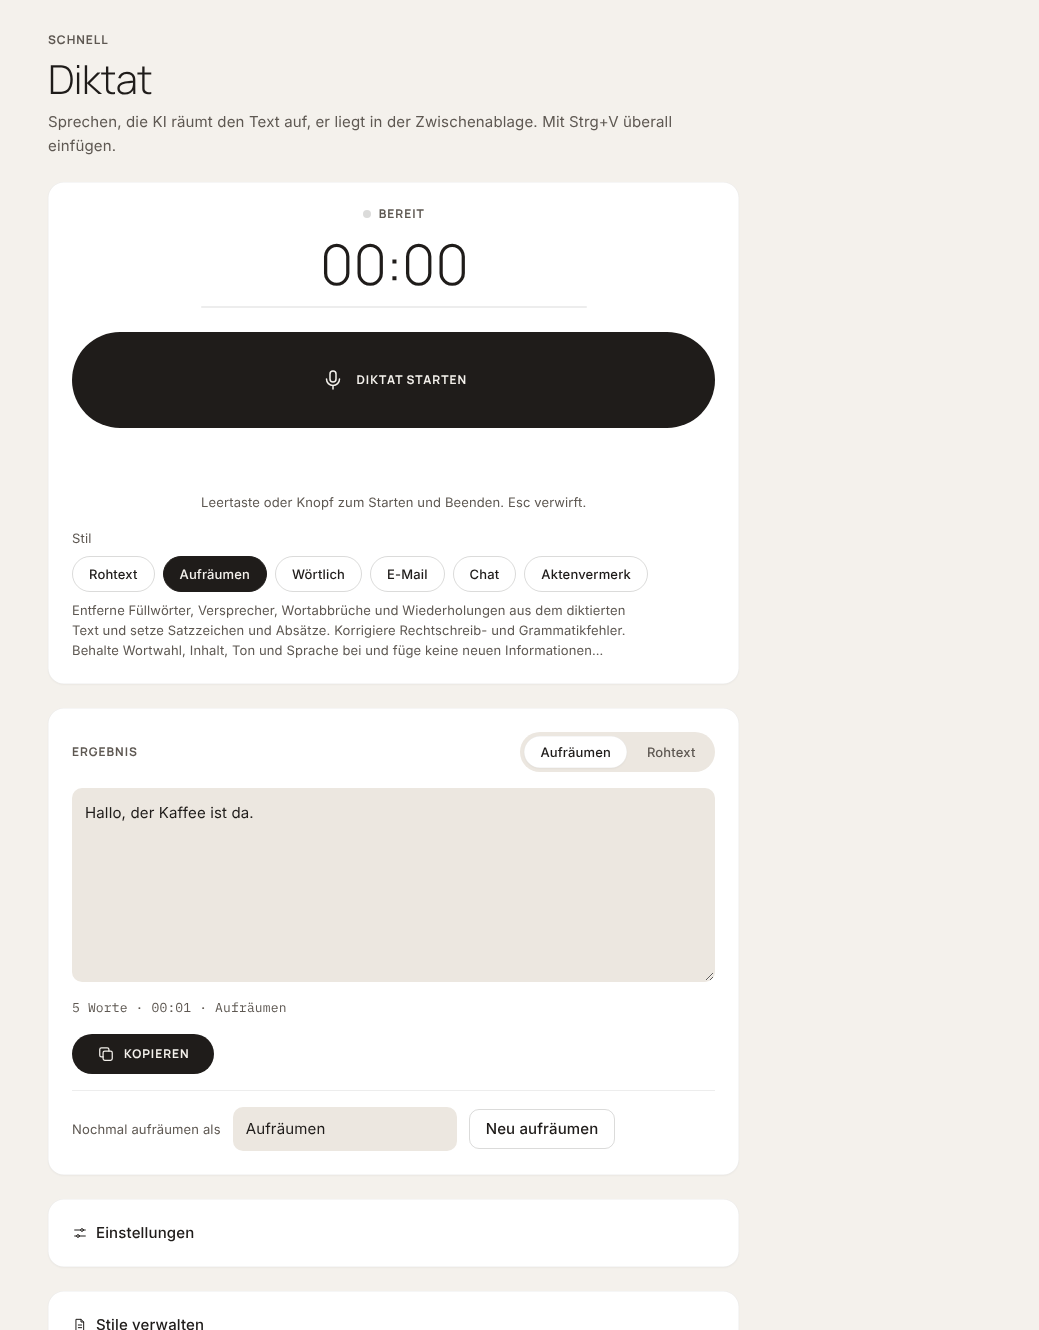
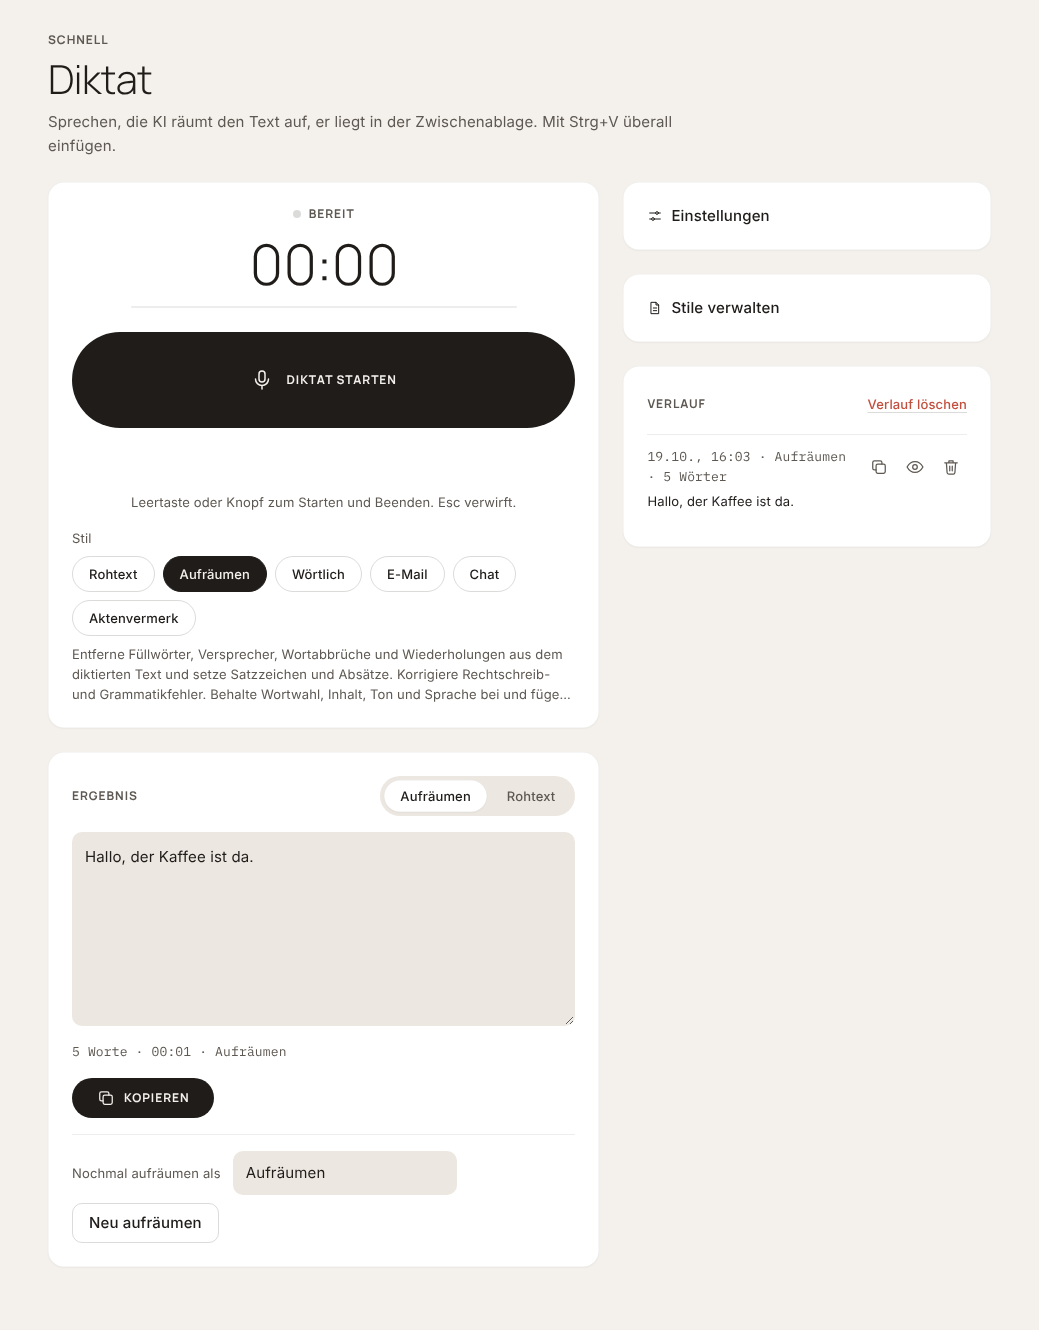
Desktop: Seiten nutzen die Fensterbreite (zwei Spalten bei Diktat, Fachbegriffen und Einstellungen), keine schmalen Karten mehr
Claude-Session: https://claude.ai/code/session_01P5Vg3U1qJGhKMBSEHTxfyv

diff --git a/css/app.css b/css/app.css
@@ -101,7 +101,7 @@ a { color: inherit; }
     padding: var(--space-8) var(--space-12) var(--space-16);
     border-left: 1px solid var(--border-subtle);
 }
-.view { max-width: var(--content-max); margin: 0 auto; display: flex; flex-direction: column; gap: var(--space-6); }
+.view { width: 100%; max-width: var(--content-max); margin: 0 auto; display: flex; flex-direction: column; gap: var(--space-6); }
 .view.is-entering { animation: view-in var(--dur-slow) var(--ease-out); }
 @keyframes view-in { from { opacity: 0; transform: translateY(var(--space-2)); } }
 
@@ -130,7 +130,6 @@ a { color: inherit; }
 .card > .t-label, .card-head .t-label { color: var(--text-secondary); }
 .card-head { display: flex; align-items: center; justify-content: space-between; gap: var(--space-3); flex-wrap: wrap; }
 .card-foot { display: flex; align-items: center; justify-content: space-between; gap: var(--space-4); flex-wrap: wrap; padding-top: var(--space-2); }
-.narrow-card { max-width: calc(var(--measure) + 2 * var(--space-6)); }
 .head-icons { display: flex; gap: var(--space-1); }
 
 /* ---------------- Buttons ---------------- */
@@ -359,8 +358,6 @@ select.input { appearance: none; padding-right: var(--space-8); background-image
 .file-name { font: var(--type-button); }
 
 /* ---------------- Aufnahme ---------------- */
-.record-card { max-width: calc(var(--measure) + 2 * var(--space-6)); }
-#rec-result { max-width: calc(var(--measure) + 2 * var(--space-6)); }
 .recorder { display: flex; flex-direction: column; align-items: stretch; gap: var(--space-6); }
 .rec-top { display: flex; align-items: center; justify-content: space-between; gap: var(--space-3); min-height: var(--control-height); }
 .rec-display { display: flex; flex-direction: column; align-items: center; gap: var(--space-3); padding: var(--space-2) 0; text-align: center; }
@@ -518,7 +515,6 @@ select.input { appearance: none; padding-right: var(--space-8); background-image
 .foot-actions { display: flex; align-items: center; gap: var(--space-4); flex-wrap: wrap; margin-left: auto; }
 
 /* ---------------- Progress ---------------- */
-.progress-card { max-width: calc(var(--measure) + 2 * var(--space-6)); }
 .progress-file { display: flex; align-items: center; gap: var(--space-3); }
 .progress-file .provider-dot { width: var(--space-3); height: var(--space-3); }
 .progress-line { position: relative; height: var(--line-thin); background: var(--border-subtle); border-radius: var(--radius-pill); overflow: hidden; }
@@ -937,7 +933,6 @@ button.seg-time:hover { color: var(--text-primary); text-decoration: underline; 
 }
 
 /* ---------------- Diktat ---------------- */
-.dictation-card { max-width: calc(var(--measure) + 2 * var(--space-6)); }
 .dictation-card .rec-mark-btn { user-select: none; -webkit-user-select: none; touch-action: manipulation; }
 .dictation-card .rec-mark-btn:disabled { opacity: .55; }
 .dictation-card .rec-display { padding: 0; }
@@ -983,4 +978,18 @@ button.seg-time:hover { color: var(--text-primary); text-decoration: underline; 
     .repl-fields { grid-template-columns: minmax(0, 1fr); }
     .repl-arrow { display: none; }
     .tabbar .nav-item span:not(.nav-rec-dot):not(.nav-dict-dot) { font-size: 11px; }
+}
+
+/* ---------------- Wide windows: the pages use the width they get ---------------- */
+.page-grid { display: grid; grid-template-columns: minmax(0, 1fr); gap: var(--space-6); align-items: start; }
+.page-col { display: flex; flex-direction: column; gap: var(--space-6); min-width: 0; }
+@media (min-width: 1280px) {
+    .page-grid.is-dictation { grid-template-columns: minmax(0, 3fr) minmax(0, 2fr); }
+    .page-grid.is-even { grid-template-columns: repeat(2, minmax(0, 1fr)); }
+    .page-grid.is-settings { grid-template-columns: minmax(0, 2fr) minmax(0, 3fr); }
+}
+
+/* The big record button stays thumb-sized on a desktop instead of stretching across the whole card. */
+@media (min-width: 901px) {
+    .rec-actions .rec-mark-btn { max-width: calc(var(--measure) + var(--space-12)); }
 }

diff --git a/index.html b/index.html
@@ -253,6 +253,8 @@
                     </div>
                 </header>
 
+                <div class="page-grid is-dictation">
+                    <div class="page-col">
                 <section class="card dictation-card" aria-label="Diktat aufnehmen">
                     <div id="dict-recorder" class="recorder">
                         <div class="rec-display">
@@ -292,6 +294,8 @@
                     </div>
                 </section>
 
+                    </div>
+                    <div class="page-col">
                 <details class="card key-guide is-general dictation-card dict-options">
                     <summary><svg class="icon" aria-hidden="true"><use href="#i-sliders"/></svg>Einstellungen</summary>
                     <div class="options-grid">
@@ -364,6 +368,8 @@
                     <p id="dict-history-empty" class="t-small muted">Noch keine Diktate. Die letzten 50 bleiben in diesem Browser.</p>
                     <ul id="dict-history" class="dict-history"></ul>
                 </section>
+                    </div>
+                </div>
             </section>
 
             <!-- ================= VIEW: Aufnahme (live, e.g. on site) ================= -->
@@ -601,6 +607,7 @@
                         <p class="page-intro muted">Namen, Firmen und Fachwörter, die die Engine richtig schreiben soll. Die Liste gilt für alle Transkriptionen und bleibt in diesem Browser gespeichert.</p>
                     </div>
                 </header>
+                <div class="page-grid is-even">
                 <section class="card narrow-card">
                     <div class="card-head">
                         <label class="check"><input type="checkbox" id="vocab-enabled" checked> Bei der Transkription mitschicken</label>
@@ -628,6 +635,7 @@
                         <button type="button" id="repl-add" class="btn-secondary"><svg class="icon" aria-hidden="true"><use href="#i-plus"/></svg>Regel hinzufügen</button>
                     </div>
                 </section>
+                </div>
             </section>
 
             <!-- ================= VIEW: API-Keys ================= -->
@@ -669,6 +677,7 @@
                     </div>
                 </header>
 
+                <div class="page-grid is-settings">
                 <section class="card narrow-card" aria-labelledby="appearance-title">
                     <h2 id="appearance-title" class="t-label">Darstellung</h2>
                     <div id="mode-options" class="segmented" role="radiogroup" aria-labelledby="appearance-title"></div>
@@ -716,6 +725,7 @@
                         </div>
                     </div>
                 </section>
+                </div>
             </section>
         </main>
     </div>

diff --git a/css/tokens.css b/css/tokens.css
@@ -114,7 +114,7 @@
   --space-24: 96px; --space-32: 128px;
 
   /* ---- Layout ---- */
-  --content-max: 1200px;
+  --content-max: 2000px;   /* only a ceiling for very large screens; below it pages fill the window */
   --measure: 68ch;
   --sidebar-width: 240px;
 
